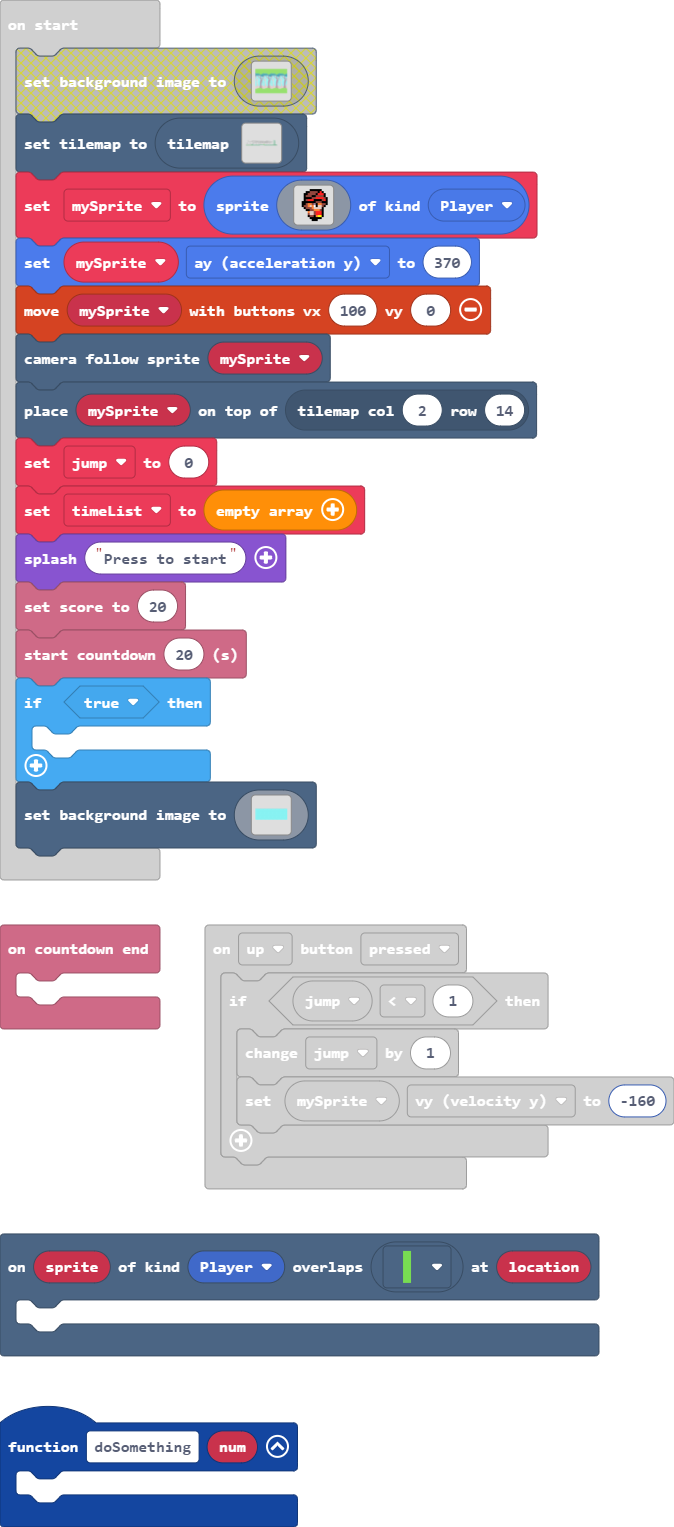
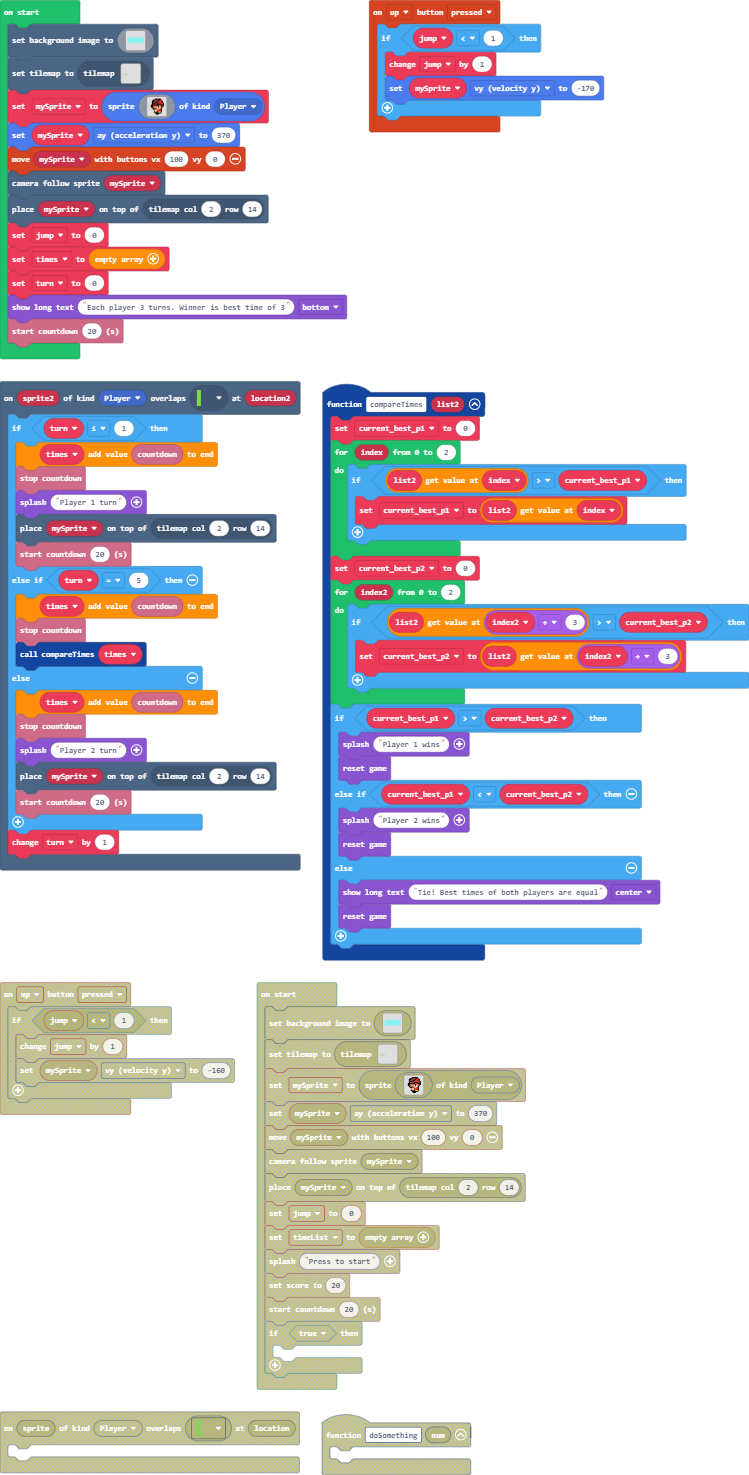
Update pxt.json, main.blocks, main.ts, tilemap.g.jres, tilemap.g.ts

diff --git a/tilemap.g.ts b/tilemap.g.ts
@@ -10,6 +10,8 @@ namespace myTiles {
     export const tile4 = image.ofBuffer(hex``);
     //% fixedInstance jres blockIdentity=images._tile
     export const tile3 = image.ofBuffer(hex``);
+    //% fixedInstance jres blockIdentity=images._tile
+    export const tile5 = image.ofBuffer(hex``);
 
     helpers._registerFactory("tilemap", function(name: string) {
         switch(helpers.stringTrim(name)) {
@@ -32,25 +34,6 @@ namespace myTiles {
 . . . . . . . . . . . . . . . . 
 . . . . . . . . . . . . . . . . 
 `, [myTiles.transparency16], TileScale.Sixteen);
-            case "level1":
-            case "level1":return tiles.createTilemap(hex`6400100000000000000000000000000000000000000000000000000000000000000000000000000000000000000000000000000000000000000000000000000000000000000000000000000000000000000000000000000000000000040000000000000000000000000000000000000505000000000000000000000000000000000000000000000000000000000000000000000000000000000000000000000000000000000000000000000000000000000000000000000000000000000000000400000400000000000000000000000000000005000000000000000000000000050505050505050505000005050505050505050505050000000000000000000000000000000000000000000505050505050000000000000000000000000000000000000004000004000000000000000000000000000000050500000000000000000005050505050000000005050505050500000000000000000005050505050505050505050505050505000000000000000505050505050505050500000000000000000000000000040000040000000000000000000000000000000005050500000505050505050505050000000000000000000000050505050505050000000505050505000505050505050505050505050505050505050505050505050505050505000000000000000000000400000400000000000000000000000000000000000000050500000000000000000500000000050505050505050505050505050505050505050505050005050505050500000505050505050505050505000000000000000000000505050505050000000004000004000000000000000000000000000000000000000000000000000000000000050500000000000000000005050505050500000000000000000505050505050505050505050505050505050505050505050505050505050505050000000000000000040000040000000000000000000000000000000000000000000000000000000000000000050505050505050505000000000000050505050505050505050000050000050500050505050505050505050505050000000005050000000000000000000000000400000400000000000000000006060606000000000000000000000000000000000000000500000000000000000000000000000000000000000505000005050500050505000005000505050500000005050505000005050500000005000000000000000004000004000000000000000000000005050505000000000005050000000000000005050005000000000000000505000000000000000505050505050000000000050000050500050500000005050500050500000000050505000000050000000000000000040000040000000000000000000005000505000000000000050505000005000000050505050500000000050505050000000005050000000000000500000000000000000000000000000000000000000000000000000000000000000000000000000000000400000400000000000000000000000000000000000000000000000000000000000000000000000000000000000000000000000500000000000000000000000000000000000800000000000000000000000000000000000000000000000000000000000004000004000000000000000000000000000000000000000000000000000000000003000000000000000000000000000000000000000000000000000000000000000000000007000000000000000000000000000000000000000000000000000000000000040000040000000000000000000000000000000000000000000000000000000000030000000000000000000000000000000000000000000000000004000000000000000004070000000000000000000000000000000000000000000000000000000000000400000400000000000000000000000000000000000000000000000000020101010100000000000000000000000400000000000004000004040404040404040404040404040700000000040000000000000400000000000400000000000400000000040004000404040004040000000001010101010101010101010101010101010101010101040404040404040404040404040404040404040404040000000000000000000000000007040404040404040404040404040404040404040404040404040404040404040404040404040404040000`, img`
-....................................................................................................
-....................................................................................................
-....................................................................................................
-....................................................................................................
-....................................................................................................
-....................................................................................................
-....................................................................................................
-....................................................................................................
-....................................................................................................
-....................................................................................................
-....................................................................................................
-....................................................................................................
-.....................2..............................................................................
-.....................2..............................................................................
-.................22222..............................................................................
-2222222222222222222222..............................................................................
-`, [myTiles.transparency16,sprites.builtin.forestTiles2,sprites.builtin.forestTiles1,sprites.castle.tileDarkGrass3,sprites.builtin.forestTiles0,myTiles.tile2,myTiles.tile1,myTiles.tile4,myTiles.tile3], TileScale.Sixteen);
             case "level3":
             case "level3":return tiles.createTilemap(hex`1000100000000000000000000000000000000000000000000000000000000000000000000000000000000000000000000000000000000000000000000000000000000000000000000000000000000000000000000000000000000000000000000000000000000000000000000000000000000000000000000000000000000000000000000000000000000000000000000000000000000000000000000000000000000000000000000000000000000000000000000000000000000000000000000000000000000000000000000000000000000000000000000000000000000000000000000000000000000000000000000000000000000000000000000000000000000000`, img`
 . . . . . . . . . . . . . . . . 
@@ -70,6 +53,25 @@ namespace myTiles {
 . . . . . . . . . . . . . . . . 
 . . . . . . . . . . . . . . . . 
 `, [myTiles.transparency16], TileScale.Sixteen);
+            case "level1":
+            case "level1":return tiles.createTilemap(hex`6400100000000000000000000000000000000000000000000000000000000000000000000000000000000000000000000000000000000000000000000000000000000000000000000000000000000000000000000000000000000000000000000000000000000000000000000000000000000000000000000000000000000000000000000000000000000000000000000000000000000000000000000000000000000000000000000000000000000000000000000000000000000000000000000000000000000000000000000000000000000000000000000000000000000000000000000000000000000000000000000000000000000000000000000000000000000000000000000000000000000000000000000000000000000000000000000000000000000000000000000000000000000000000000000000000000000000000000000000000000000000000000000000000000000000000000000000000000000000000000000000000000000000000000000000000000000000000000000000000000000000000000000000000000000000000000000000000000000000000000000000000000000000000000000000000000000000000000000000000000000000000000000000000000000000000000000000000000000000000000000000000000000000000000000000000000000000000000000000000000000000000000000000000000000000000000000000000000000000000000000000000000000000000000000000000000000000000000000000000000000000000000000000000000000000000000000000000000000000000000000000000000000000000000000000000000000000000000000000000000000000000000000000000000000000000000000000000000000000000000000000000000000000000000000000000000000000000000000000000000000000000000000000000000000000000000000000000000000000000000000000000000000000000000000000000000000000000000000000000000000000000000000000000000000000000000000000000000000000000000000000000000000000000000000000000000000000000000000000000000000000000000000000000000000000000000000004000000000000000000000000000000000000000000000000000000000000000000000000000000000000000000000000000000000000000000000000000000000000000000000000000000000000000000000000000000000000000000000000000000030000000000000000000000000000000000000000000000000000000000000000000000000000000000000000000000000000000000000000000000000000000000000000000000000000000000000000000000000000000000000005000005000000000300000000000000000000000000000000000000000000000000000000000000000000000000000000000000000000000000000000000000000000000000000000000000000000000000000000000000000000000500000000000500000000050000000003000000000000000000000000000000000000000000000000000000000000000000000000000000000000000000000000000000000000000000000000000000000000000000000000000000000000000000000505050000000000050000000500000000030000000000000000000000000000000000000000000000000000000000000000000000000000000000000000000000000000000000000000000000000000000000000000000000000000000000000000000000000000000000000000000000000000000300000000000000000000000000000000000000000000000000000000000000000000000000000000000000000000000000000000000000000000000000000000000000000000000000000000000000000000000000000000000000020101010100000003000000000000000000000000000000000000000000000000000000000000000000000000000000000000000000000000000000000000000000000000000000000000000000000000000001010101010101010101010101010101010101010101010101010101010101010101010600000000000000000000000000000000000000000000000000000000000000000000000000000000000000000000000000000000000000000000000000000000`, img`
+..........................2.........................................................................
+..........................2.........................................................................
+..........................2.........................................................................
+..........................2.........................................................................
+..........................2.........................................................................
+..........................2.........................................................................
+..........................2.........................................................................
+..........................2.........................................................................
+..........................2.........................................................................
+....................................................................................................
+.................2..2...............................................................................
+.........2.....2....2...............................................................................
+........222.....2...2...............................................................................
+....................................................................................................
+.................22222..............................................................................
+222222222222222222222222222222222222................................................................
+`, [myTiles.transparency16,sprites.builtin.forestTiles2,sprites.builtin.forestTiles1,myTiles.tile4,myTiles.tile3,myTiles.tile5,sprites.builtin.forestTiles3], TileScale.Sixteen);
         }
         return null;
     })
@@ -85,6 +87,8 @@ namespace myTiles {
             case "tile4":return tile4;
             case "myTile1":
             case "tile3":return tile3;
+            case "myTile3":
+            case "tile5":return tile5;
         }
         return null;
     })

diff --git a/main.ts b/main.ts
@@ -1,23 +1,65 @@
+controller.up.onEvent(ControllerButtonEvent.Pressed, function () {
+    if (jump < 1) {
+        jump += 1
+        mySprite.vy = -170
+    }
+})
 scene.onHitWall(SpriteKind.Player, function (sprite, location) {
     if (!(mySprite.isHittingTile(CollisionDirection.Top))) {
         jump = 0
     }
 })
-controller.up.onEvent(ControllerButtonEvent.Pressed, function () {
-    if (jump < 1) {
-        jump += 1
-        mySprite.vy = -160
-    }
-})
 info.onCountdownEnd(function () {
 	
 })
-function doSomething (num: number) {
-	
+function compareTimes (list2: number[]) {
+    current_best_p1 = 0
+    for (let index = 0; index <= 2; index++) {
+        if (list2[index] > current_best_p1) {
+            current_best_p1 = list2[index]
+        }
+    }
+    current_best_p2 = 0
+    for (let index2 = 0; index2 <= 2; index2++) {
+        if (list2[index2 + 3] > current_best_p2) {
+            current_best_p2 = list2[index2 + 3]
+        }
+    }
+    if (current_best_p1 > current_best_p2) {
+        game.splash("Player 1 wins")
+        game.reset()
+    } else if (current_best_p1 < current_best_p2) {
+        game.splash("Player 2 wins")
+        game.reset()
+    } else {
+        game.showLongText("Tie! Best times of both players are equal", DialogLayout.Center)
+        game.reset()
+    }
 }
-scene.onOverlapTile(SpriteKind.Player, assets.tile`myTile2`, function (sprite, location) {
-	
+scene.onOverlapTile(SpriteKind.Player, assets.tile`myTile2`, function (sprite2, location2) {
+    if (turn <= 1) {
+        times.push(info.countdown())
+        info.stopCountdown()
+        game.splash("Player 1 turn")
+        tiles.placeOnTile(mySprite, tiles.getTileLocation(2, 14))
+        info.startCountdown(20)
+    } else if (turn == 5) {
+        times.push(info.countdown())
+        info.stopCountdown()
+        compareTimes(times)
+    } else {
+        times.push(info.countdown())
+        info.stopCountdown()
+        game.splash("Player 2 turn")
+        tiles.placeOnTile(mySprite, tiles.getTileLocation(2, 14))
+        info.startCountdown(20)
+    }
+    turn += 1
 })
+let current_best_p2 = 0
+let current_best_p1 = 0
+let turn = 0
+let times: number[] = []
 let jump = 0
 let mySprite: Sprite = null
 scene.setBackgroundImage(img`
@@ -166,10 +208,7 @@ controller.moveSprite(mySprite, 100, 0)
 scene.cameraFollowSprite(mySprite)
 tiles.placeOnTile(mySprite, tiles.getTileLocation(2, 14))
 jump = 0
-let timeList: number[] = []
-game.splash("Press to start")
-info.setScore(20)
+times = []
+turn = 0
+game.showLongText("Each player 3 turns. Winner is best time of 3", DialogLayout.Bottom)
 info.startCountdown(20)
-if (true) {
-	
-}
